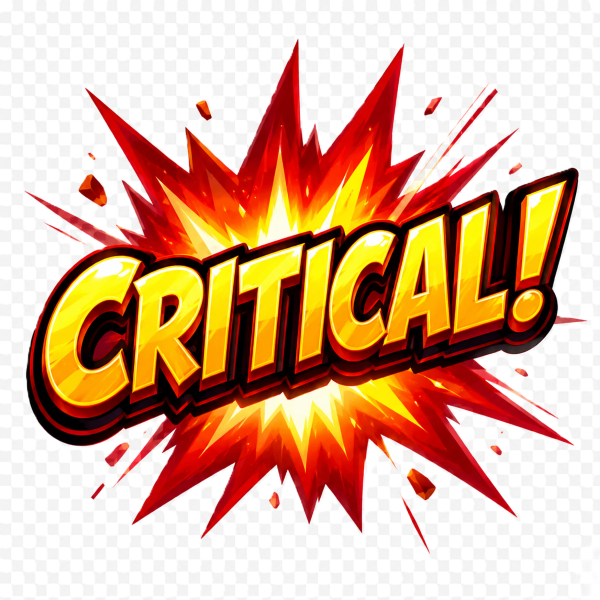
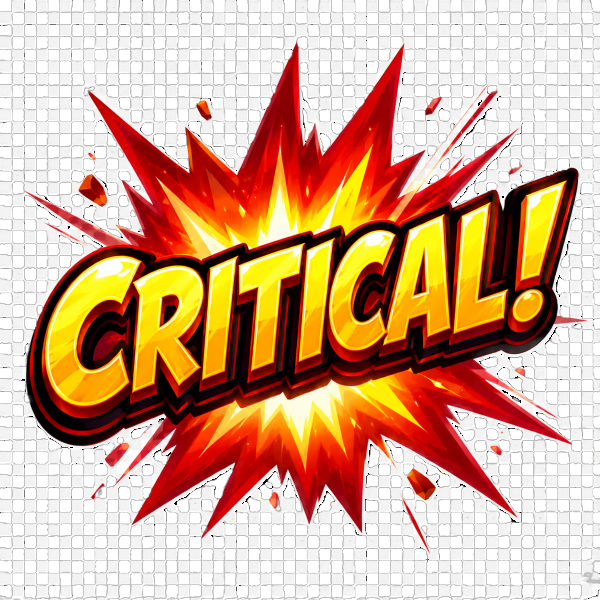
try

diff --git a/utils/battleLayout.js b/utils/battleLayout.js
@@ -74,13 +74,18 @@ export function getMonsterPlacement(stageKind, layout, screenWidth = 0) {
     insetPx = Math.min(insetPx, maxInsetForGap);
   }
 
+  /** Mini boss sits slightly closer to the right edge */
+  const miniBossRightNudgePx =
+    stageKind === 'miniBoss' && w > 0 ? Math.round(w * 0.03) : 0;
+  const p2RightPx = Math.max(0, insetPx - miniBossRightNudgePx);
+
   return {
     p1Bottom: boss ? layout.monsterBottomBoss : layout.monsterBottom,
     p2Bottom: boss ? layout.monsterBottomBoss : layout.monsterBottom,
     /** @deprecated use p1Left / p2Right when screenWidth provided */
     sideInset: layout.monsterSideInset,
     p1Left: insetPx,
-    p2Right: insetPx,
+    p2Right: p2RightPx,
     insetFrac,
   };
 }

diff --git a/src/phaser/PhaserBattleScene.js b/src/phaser/PhaserBattleScene.js
@@ -384,7 +384,7 @@ export function createPhaserBattleScene(Phaser) {
       const damage = Math.max(0, Math.round(result.damage ?? 0));
       if (result.crit) this.showFeedbackImage(actor.x, actor.y - 154, ACTION_IMAGE_ASSETS.feedbackCritical.key);
       else if (result.defended) this.showFeedbackImage(actor.x, actor.y - 154, ACTION_IMAGE_ASSETS.feedbackGuard.key);
-      const label = `${damage}`;
+      const label = `-${damage}`;
       this.showFloatingText(actor.x, actor.y - 122, label, {
         color: result.crit ? '#facc15' : result.defended ? '#bfdbfe' : '#ef4444',
         size: result.crit ? 34 : result.defended ? 22 : 27,

diff --git a/components/BattleProjectileLayer.js b/components/BattleProjectileLayer.js
@@ -390,7 +390,7 @@ export default function BattleProjectileLayer({
             },
           ]}
         >
-          {Math.max(0, Math.round(effect.damage ?? 0))}
+          {`-${Math.max(0, Math.round(effect.damage ?? 0))}`}
         </Animated.Text>
       ) : null}
 
